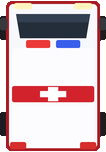
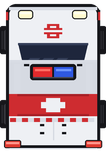
v35

diff --git a/sprite.go b/sprite.go
@@ -71,20 +71,29 @@ func drawBrakeLights(dst *ebiten.Image, c Car, braking bool) {
 	hot := color.RGBA{R: 255, G: 30, B: 30, A: 255}
 
 	var w, h, y, lx, rx float64
-	if c.Kind == KindPlayer {
+	switch c.Kind {
+	case KindPlayer:
 		// игрок: блоки по зонам стоп-сигналов спрайта —
-		// ближе к середине и чуть выше, как договорились
+		// ближе к середине и чуть выше
 		sx, sy := c.W/106.0, c.H/152.0
 		w, h = 16*sx, 10*sy
 		y = c.Y + 129*sy
 		lx = c.X + 13*sx
 		rx = c.X + 77*sx
-	} else {
-		// враги: прежние позиции — под нарисованные на спрайтах фонари
+	case KindPoliceSedan:
+		// полицейский седан: свои зоны стоп-сигналов спрайта
+		// (X 18–34 и 72–88, Y 133–141)
+		sx, sy := c.W/106.0, c.H/152.0
+		w, h = 16*sx, 8*sy
+		y = c.Y + 133*sy
+		lx = c.X + 18*sx
+		rx = c.X + 72*sx
+	default:
+		// остальной трафик: прежние позиции, сдвинуты на 2 px к центру
 		w, h = 9.0, 7.0
 		y = c.Y + c.H - h - 2
-		lx = c.X + 2
-		rx = c.X + c.W - w - 2
+		lx = c.X + 4.0
+		rx = c.X + c.W - w - 4.0
 	}
 
 	lf, rf := float32(lx), float32(rx)
@@ -179,19 +188,26 @@ func drawTailLights(dst *ebiten.Image, c Car, braking bool) {
 	stop := color.RGBA{R: 255, G: 60, B: 40, A: 235}
 	halo := color.RGBA{R: 255, G: 50, B: 40, A: 70}
 
-	var lxList []float64
-	var cy float64
-	if c.Kind == KindPlayer {
-		// игрок: центры зон стоп-сигналов спрайта (X 21 и 85 из 106, Y 134 из 152)
-		lxList = []float64{c.X + c.W*21/106.0, c.X + c.W*85/106.0}
+	var cxL, cxR, cy float64
+	switch c.Kind {
+	case KindPlayer:
+		// центры зон стоп-сигналов игрока: X 21 и 85 из 106, Y 134 из 152
+		cxL = c.X + c.W*21/106.0
+		cxR = c.X + c.W*85/106.0
 		cy = c.Y + 134*(c.H/152.0)
-	} else {
-		// враги: прежние позиции
-		lxList = []float64{c.X + c.W*0.16, c.X + c.W*0.84}
+	case KindPoliceSedan:
+		// центры зон седана: X 26 и 80 из 106, Y 137 из 152
+		cxL = c.X + c.W*26/106.0
+		cxR = c.X + c.W*80/106.0
+		cy = c.Y + 137*(c.H/152.0)
+	default:
+		// остальной трафик: центры дневных блоков, сдвинуты на 2 px к центру
+		cxL = c.X + 8.5
+		cxR = c.X + c.W - 8.5
 		cy = c.Y + c.H - 6
 	}
 
-	for _, lx := range lxList {
+	for _, lx := range []float64{cxL, cxR} {
 		if braking {
 			vector.FillCircle(dst, float32(lx), float32(cy), 9, halo, false)
 			vector.FillCircle(dst, float32(lx), float32(cy), 5, stop, false)

diff --git a/game.go b/game.go
@@ -176,15 +176,15 @@ func NewGame() *Game {
 
 	// паки скинов врагов — обычные файлы в assets/skins/<тип>/
 	g.enemyVariants = map[CarKind][]Sprite{
-		KindSedan:     loadSkinPack("assets/skins/sedan", g.sprites[KindSedan]),
-		KindSport:     loadSkinPack("assets/skins/sport", g.sprites[KindSport]),
-		KindSUV:       loadSkinPack("assets/skins/suv", g.sprites[KindSUV]),
-		KindMinibus:   loadSkinPack("assets/skins/minibus", g.sprites[KindMinibus]),
-		KindBus:       loadSkinPack("assets/skins/bus", g.sprites[KindBus]),
-		KindTruck:     loadSkinPack("assets/skins/truck", g.sprites[KindTruck]),
-		KindAmbulance: loadSkinPack("assets/skins/ambulance", g.sprites[KindAmbulance]),
+		KindSedan:   loadSkinPack("assets/skins/sedan", g.sprites[KindSedan]),
+		KindSport:   loadSkinPack("assets/skins/sport", g.sprites[KindSport]),
+		KindSUV:     loadSkinPack("assets/skins/suv", g.sprites[KindSUV]),
+		KindMinibus: loadSkinPack("assets/skins/minibus", g.sprites[KindMinibus]),
+		KindBus:     loadSkinPack("assets/skins/bus", g.sprites[KindBus]),
+		KindTruck:   loadSkinPack("assets/skins/truck", g.sprites[KindTruck]),
 	}
-	// полицейский седан — единственный скин, без пака вариантов
+	// скорая и полицейский седан — единственные скины, без паков вариантов
+	g.enemyVariants[KindAmbulance] = []Sprite{g.sprites[KindAmbulance]}
 	g.enemyVariants[KindPoliceSedan] = []Sprite{g.sprites[KindPoliceSedan]}
 
 	g.readSettings()
@@ -815,7 +815,7 @@ func (g *Game) drawWorld(screen *ebiten.Image) {
 		drawCar(screen, e, skin.Img)
 		drawBlinker(screen, e, e.Blink, int(g.frame))
 		drawBrakeLights(screen, e, e.Braking)
-		if e.Kind == KindPoliceSedan {
+		if e.Kind == KindPoliceSedan || e.Kind == KindAmbulance {
 			drawBeacons(screen, e, int(g.frame))
 		}
 	}
@@ -886,7 +886,7 @@ var beaconSkins = map[string]bool{
 // У скинов разные балки, координаты — в единицах спрайта 106×152.
 func beaconRect(c Car) (bx, by, bw, bh float64) {
 	sx, sy := c.W/106.0, c.H/152.0
-	if c.Kind == KindPoliceSedan {
+	if c.Kind == KindPoliceSedan || c.Kind == KindAmbulance {
 		return c.X + 30*sx, c.Y + 64*sy, 46 * sx, 16 * sy
 	}
 	return c.X + 24*sx, c.Y + 64*sy, 58 * sx, 16 * sy

diff --git a/tools/genskins/main.go b/tools/genskins/main.go
@@ -161,13 +161,6 @@ func main() {
 			fmt.Println("OK", path)
 		}
 	}
-
-	if err := os.MkdirAll("assets/skins/ambulance", 0o755); err != nil {
-		panic(err)
-	}
-	data, _ := os.ReadFile("assets/ambulance.png")
-	os.WriteFile("assets/skins/ambulance/ambulance.png", data, 0o644)
-	fmt.Println("OK assets/skins/ambulance/ambulance.png")
 }
 
 func repaint(src image.Image, target color.RGBA, repaintLight, fixBumpers bool, headMask, tailMask []bool) *image.RGBA {
